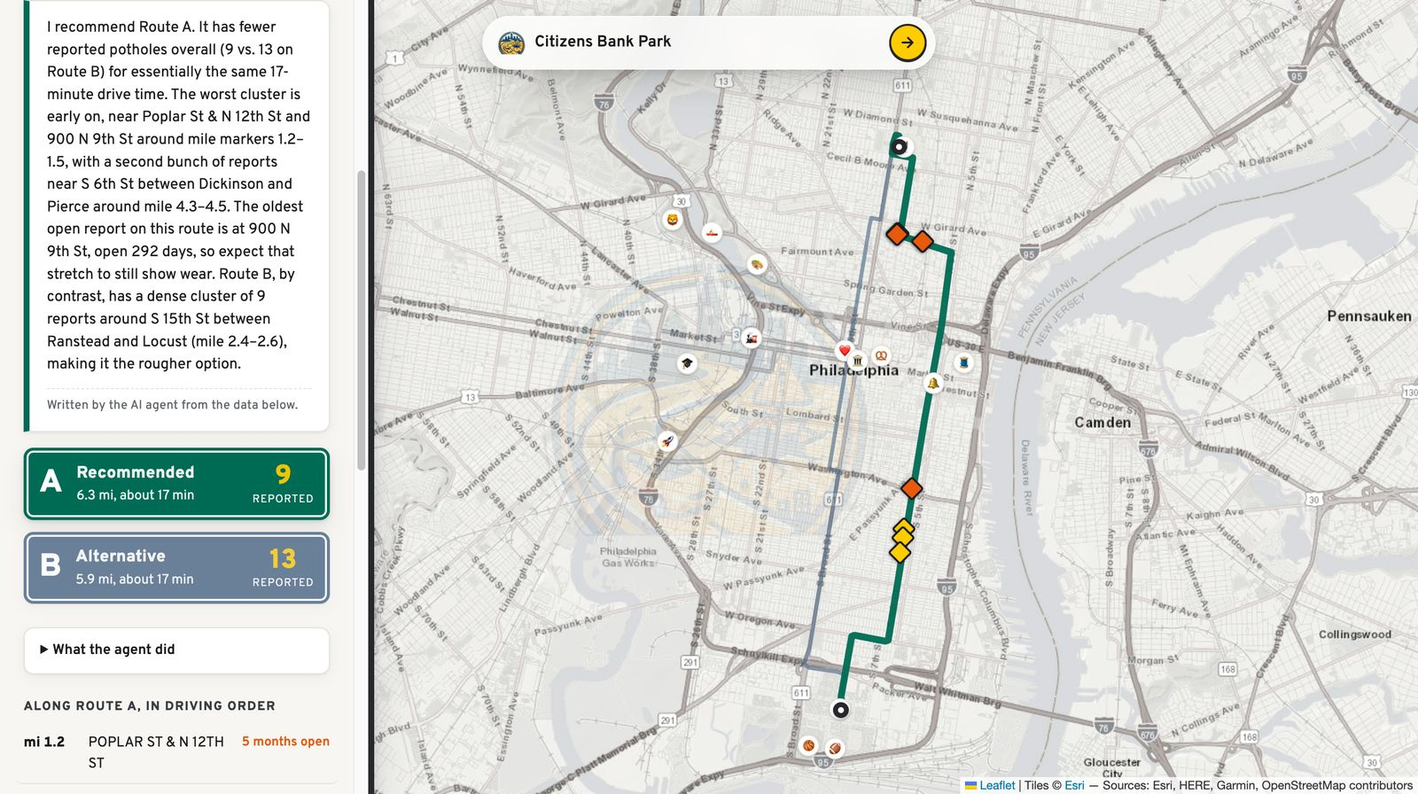
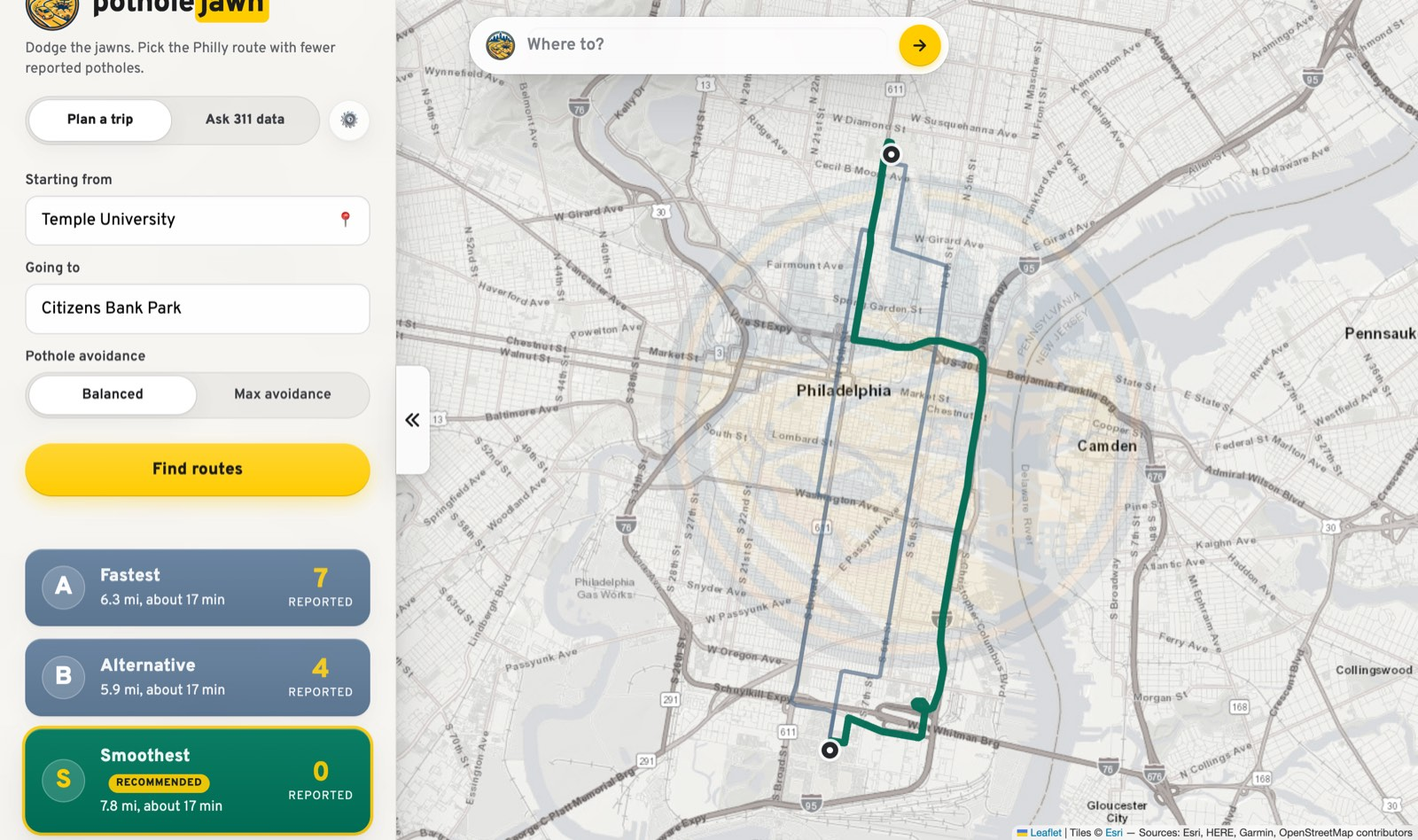
Reframe potholejawn as a product: case study, card, screenshots, OG
potholejawn has moved past its hackathon build: its own A* router on a
Philly street graph, live turn-by-turn navigation, saved places, and a
Cloud Run pipeline. Rewrite the case study and project card around that,
swap in current screenshots, add a v2 social card and SEO copy, and add
an October update to the hackathon Field Notes post.

diff --git a/src/pages/PotholejawnCaseStudy.jsx b/src/pages/PotholejawnCaseStudy.jsx
@@ -5,11 +5,11 @@ import { useSeo } from '../lib/seo';
 
 export default function PotholejawnCaseStudy() {
   useSeo({
-    title: 'potholejawn · AI Agent Over Live 311 Data — Case Study · dgpugliese.dev',
+    title: 'potholejawn · Pothole-Aware Navigation — Case Study · dgpugliese.dev',
     description:
-      "Case study: potholejawn, an AI agent that scans Philadelphia's live 311 data — 5.9 million rows — to route you around the potholes. Built solo in one day at a hackathon. Claude tool use, PostGIS, SSE streaming, guarded SQL.",
+      "Case study: potholejawn, turn-by-turn navigation that routes around Philadelphia's potholes. Its own A* street graph with live 311 reports as penalties, every route verified against city data, voice navigation, and a Claude trip agent. Python, PostGIS, OSRM, Cloud Run.",
     path: '/potholejawn',
-    image: 'https://dgpugliese.dev/potholejawn-og-v1.png',
+    image: 'https://dgpugliese.dev/potholejawn-og-v2.png',
   });
   return (
     <>
@@ -31,14 +31,14 @@ export default function PotholejawnCaseStudy() {
               potholejawn<span style={{ color: 'var(--cyan)' }}>.</span>
             </h1>
             <div className="mono" style={{ fontSize: 16, marginTop: 16, color: 'var(--fg-dim)' }}>
-              an AI agent that scans Philadelphia&apos;s live 311 data — 5.9 million rows — to route you around the potholes.
+              turn-by-turn navigation that routes around Philadelphia&apos;s potholes — planned on its own street graph, verified against the city&apos;s live 311 data.
             </div>
             <div className="mono" style={{ display: 'flex', flexWrap: 'wrap', gap: 18, marginTop: 28, fontSize: 11, color: 'var(--fg-faint)', borderTop: '1px dashed var(--line)', paddingTop: 16, letterSpacing: '0.12em' }}>
               <span><span style={{ color: 'var(--green)' }}>●</span> LIVE</span>
-              <span>SOLO BUILD · ONE DAY · HACKATHON</span>
-              <span>SHIPPED 2026-09-20</span>
+              <span>SOLO BUILD · PRODUCT</span>
+              <span>SINCE 2026-09-20</span>
               <a href="https://potholejawn.com" target="_blank" rel="noreferrer" style={{ color: 'var(--cyan)', textDecoration: 'none' }}>potholejawn.com ↗</a>
-              <a href="https://github.com/dgpugliese/potholejawn" target="_blank" rel="noreferrer" style={{ color: 'var(--cyan)', textDecoration: 'none' }}>SOURCE ↗</a>
+              <a href="https://github.com/dgpugliese/potholejawn-hackathon" target="_blank" rel="noreferrer" style={{ color: 'var(--cyan)', textDecoration: 'none' }}>SOURCE ↗</a>
             </div>
           </div>
 
@@ -48,7 +48,7 @@ export default function PotholejawnCaseStudy() {
           <div className="panel" style={{ padding: 0, marginBottom: 32, overflow: 'hidden' }}>
             <img
               src="/screenshots/potholejawn.jpg"
-              alt="Full-viewport map of Philadelphia with 1,500+ live open pothole reports as yellow dots and a floating 'Where to?' search pill"
+              alt="Full-viewport map of Philadelphia with over a thousand live open pothole reports as yellow dots and a floating 'Where to?' search pill"
               style={{ display: 'block', width: '100%', height: 'auto' }}
               loading="lazy"
             />
@@ -57,129 +57,158 @@ export default function PotholejawnCaseStudy() {
           {/* 01 TL;DR */}
           <Section title="TL;DR" sub="60-second summary">
             <p style={P}>
-              potholejawn is a map-first web app over Philadelphia&apos;s live 311 dataset. The map opens on
-              <Cyan> every open pothole report in the city right now</Cyan> — 1,500+ in view before you type
-              anything. Type where you are and where you&apos;re going, and an AI agent geocodes both places,
-              pulls the driving routes, scans each one against live city data for open street-defect reports
-              within 30 meters, and recommends the smoother drive with a plain-language briefing.
+              potholejawn is navigation for Philadelphia that knows where the potholes are. The map opens on
+              <Cyan> every open pothole report in the city right now</Cyan>. Type where you&apos;re going and it
+              fetches the fastest routes, then <Cyan>re-plans the drive on its own street graph</Cyan> with every
+              open report as a time penalty, verifies each route against the city&apos;s live data, and
+              recommends one. Tap <Cyan>Start navigation</Cyan> and it drives you there: maneuver banner, voice,
+              posted-limit speedometer, a heads-up for every reported pothole ahead, and an automatic smooth
+              re-route when you leave the route.
             </p>
             <p style={P}>
-              It was built <Cyan>solo, in one day</Cyan>, at the Code &amp; Coffee Philadelphia AI Agent
-              Hackathon on September 20, 2026, and was live at <Cyan>potholejawn.com</Cyan> the same day —
-              with 42 passing tests, rate limits, prompt caching, and a deterministic fallback so the demo
-              never dies. Cost hardening (a model-tier knob and a trip-result cache) landed the same evening.
+              It started as a one-day build at the Code &amp; Coffee Philadelphia AI Agent Hackathon on
+              September 20, 2026. That version could only <Dim>choose</Dim> between routes a time-optimal router
+              offered. Since then it has been rebuilt into a product: its own router, live navigation, saved
+              places, a redesigned interface, and a tested Google Cloud pipeline — <Cyan>60 tests</Cyan>, no API
+              key or network needed to run them.
             </p>
           </Section>
 
           {/* 02 Why */}
-          <Section title="Why it exists" sub="the data is public; the answers aren't">
+          <Section title="Why it exists" sub="the data is public; the routing gap is real">
             <p style={P}>
-              Philadelphia publishes every 311 request since 2014 — about 6 million rows — but answering a
-              real question takes SQL skills and knowledge of the data&apos;s quirks. In 2026 the city closes
-              illegal-dumping reports in about 4 days, while roughly <Cyan>19% of pothole reports</Cyan> and
-              <Cyan> 81% of abandoned-vehicle reports</Cyan> are still open. Residents, journalists, and
-              council staff should be able to find that out by asking.
+              Mainstream routers optimise for time, and a time-optimal router like OSRM cannot avoid potholes: the
+              best it can do is offer alternatives, and often every alternative runs down the same bad street. Meanwhile Philadelphia
+              publishes every 311 request since 2014 — about 6 million rows — and in 2026 roughly
+              <Cyan> 19% of pothole reports</Cyan> are still open, taking an average of 27 days to close. The
+              data to route around them exists. Nothing was turning it into a drive.
             </p>
           </Section>
 
           {/* 03 Architecture */}
-          <Section title="How the trip agent works" sub="the agent picks the tools; the rails pick the limits">
+          <Section title="How a trip works" sub="plan our own route, grade it with the city's numbers">
             <Diagram />
             <p style={P}>
-              The agent decides which tools to call and in what order, weighs pothole count, report age, and
-              drive time, then explains its pick. Both agents — trip and analyst — share
-              <Cyan> one generic tool loop</Cyan>; the difference is entirely in the tools and the system prompt.
-            </p>
-          </Section>
-
-          {/* 04 Watching it think */}
-          <Section title="Watching it think" sub="streaming steps instead of a spinner">
-            <p style={P}>
-              Agent steps stream to the panel live over <Cyan>Server-Sent Events</Cyan>, so you watch the
-              agent geocode, fetch routes, and scan them instead of staring at a spinner. After a trip, the
-              <Cyan> &quot;What the agent did&quot;</Cyan> section shows the full audit trail — every thought, tool
-              call, SQL query, error, and token count. The same trail is written to a per-run JSONL file on
-              the server. An agent you can audit is an agent you can trust in front of strangers.
+              The trip agent decides which tools to call and in what order, weighs pothole count, report age, and
+              drive time, then explains its pick in plain language. Its steps stream to the panel live over
+              <Cyan> Server-Sent Events</Cyan>, and <Cyan>&quot;How this route was chosen&quot;</Cyan> shows every
+              lookup behind the result. When the model is unavailable, a plain-Python planner scores each route
+              as minutes plus the same time value per report the router optimised with — so the recommendation
+              always agrees with the plan.
             </p>
             <div className="panel" style={{ padding: 0, marginBottom: 18, overflow: 'hidden' }}>
               <img
                 src="/screenshots/potholejawn-trip.jpg"
-                alt="Desktop trip view: slide-in panel with the agent's briefing, Route A recommended with 9 reports vs Route B's 13, a 'What the agent did' audit section, and both routes drawn on the map with pothole markers"
+                alt="Desktop trip view: Temple University to Citizens Bank Park with three route cards — Fastest at 7 reported potholes, Alternative at 4, and the recommended Smoothest route at 0, all about 17 minutes — and the smooth route drawn in green on the map"
                 style={{ display: 'block', width: '100%', height: 'auto' }}
                 loading="lazy"
               />
             </div>
             <p style={{ ...P, marginBottom: 0 }}>
-              Real result from live data: <Dim>Temple University → Citizens Bank Park</Dim> — same 17-minute
-              drive, one route passes <Cyan>9 open pothole reports</Cyan>, the other <Cyan>13</Cyan>.
+              Real result from live data: <Dim>Temple University → Citizens Bank Park</Dim> — the fastest route
+              passes <Cyan>7 open pothole reports</Cyan>; the smooth route passes <Cyan>0</Cyan>, in the same
+              17 minutes.
             </p>
           </Section>
 
-          {/* 05 The analyst */}
-          <Section title="The 311 analyst" sub="an agent that writes its own SQL — inside a cage">
+          {/* 04 The smooth router */}
+          <Section title="The smooth router" sub="why it stopped being a hackathon project">
             <p style={P}>
-              The second agent answers open-ended questions — <Dim>&quot;where is the city slowest at fixing
-              potholes?&quot;</Dim> — by writing and running SQL against the full 5.9M-row dataset through the
-              city&apos;s public Carto SQL API. When a query fails, the error goes back to the model, which
-              <Cyan> fixes its own SQL and retries</Cyan>. The UI streams the analyst&apos;s steps live and shows
-              every query it runs.
+              Choosing the least-bad of someone else&apos;s routes was the hackathon&apos;s ceiling. Removing it
+              meant routing on potholejawn&apos;s own copy of the city&apos;s streets:
             </p>
-            <p style={P}>
-              Its SQL is treated as <Cyan>untrusted input</Cyan>: single SELECT only, table allowlist, no
-              comments, no admin functions, results capped at 200 rows. And the analyst carries honesty
-              rules — it reports the open-case share next to any time-to-close figure, and does not confuse
-              <Dim> more reports</Dim> with <Dim>more potholes</Dim>.
-            </p>
+            <ul style={UL}>
+              <li><Cyan>Street graph.</Cyan> Philadelphia&apos;s drivable network from OpenStreetMap, compacted to a 3 MB gzipped file — 64k intersections, 93k segments, one-way streets and posted speeds kept. It loads in a quarter of a second and ships inside the container.</li>
+              <li><Cyan>Penalties from live data.</Cyan> Every open Street Defect report from the last 12 months is matched to the segments within 30 m and becomes a time penalty — 45 s on <Dim>Balanced</Dim>, 180 s on <Dim>Max avoidance</Dim> — weighted down as reports age. The set refreshes every 10 minutes.</li>
+              <li><Cyan>Search.</Cyan> A* over travel time plus penalties, with turn-aware junction costs calibrated against OSRM on real Philly trips to within about 10%.</li>
+              <li><Cyan>Make it legal.</Cyan> The graph path is snapped through OSRM via a handful of waypoints with bearings, so the route respects turn restrictions and comes back with real durations and turn-by-turn directions.</li>
+              <li><Cyan>Verify.</Cyan> The smooth route is scanned with the exact same city-data query as every other route.</li>
+            </ul>
+          </Section>
+
+          {/* 05 Live navigation */}
+          <Section title="Live navigation" sub="in the spirit of Google Maps and Waze">
+            <div style={{ display: 'flex', flexWrap: 'wrap', gap: 24, alignItems: 'flex-start' }}>
+              <div style={{ flex: '1 1 320px' }}>
+                <p style={P}>
+                  Navigation runs in the browser against the route&apos;s own geometry. Each GPS fix is snapped to
+                  the line; the next maneuver drives the banner and the voice prompt; every reported pothole on the
+                  route is announced when it is within 160 m ahead. Two fixes more than 45 m off the line trigger a
+                  re-route: the smooth router runs again from your position — no model call, about a second — and
+                  the new route takes over without leaving navigation.
+                </p>
+                <ul style={UL}>
+                  <li>A <Cyan>speedometer</Cyan> with the posted limit read from the street graph&apos;s OpenStreetMap tags; it turns red when you are over.</li>
+                  <li><Cyan>Alternatives from here</Cyan> — smooth, max avoidance, fastest — each scanned, switchable on tap.</li>
+                  <li>Your <Cyan>vehicle and voice</Cyan>: seven top-down vehicle icons in eight colours, any English voice the device offers, haptic nudges before turns.</li>
+                  <li>A <Cyan>night map</Cyan> from sunset to sunrise, route overview, and <Dim>Report a pothole here</Dim> to drop a pin for 311 after the drive.</li>
+                  <li><Cyan>Saved places</Cyan> — Home, Work, favourites, recent trips — kept on your device, not on a server.</li>
+                </ul>
+                <p style={{ ...P, marginBottom: 0 }}>
+                  <Dim>Preview drive</Dim> replays a route through the same code path, which is how navigation is
+                  tested without a car.
+                </p>
+              </div>
+              <div className="panel" style={{ padding: 0, overflow: 'hidden', flex: '0 1 280px', margin: '0 auto' }}>
+                <img
+                  src="/screenshots/potholejawn-mobile.jpg"
+                  alt="Mobile navigation at night: a green maneuver banner reading 'Turn left onto North Broad Street (PA 611)', the vehicle icon on the route, a speedometer at 25 mph under a 30 limit, and the ETA bar"
+                  style={{ display: 'block', width: '100%', height: 'auto' }}
+                  loading="lazy"
+                />
+              </div>
+            </div>
           </Section>
 
           {/* 06 Guardrails */}
           <Section title="Guardrails" sub="autonomy where it helps, hard rails where it matters">
             <Decision
+              title="The router never grades its own homework."
+              body="The smooth router plans with its own report matching, but the count you see always comes from the same PostGIS corridor query run against every route. The number on the smooth route is the city's number, not ours."
+            />
+            <Decision
               title="The model never writes the route SQL."
               body="The PostGIS route-scan query is built in plain Python from validated numbers only — the search radius is clamped to 10–100 m, and every coordinate must fall inside a Philadelphia bounding box. The agent chooses when to scan; it never chooses the SQL."
             />
             <Decision
-              title="The demo never dies."
-              body="If the API key is missing or the model call fails, a plain-Python planner produces the same map and a simpler briefing. If the agent skips a route, a completeness check scans it anyway. Graceful degradation was a design requirement, not an afterthought."
-            />
-            <Decision
-              title="A run cannot loop forever."
-              body="Hard cap of 12 model turns per run, per-IP and global rate limits on the public agent endpoints, and a full JSONL audit trail of every step and token count."
+              title="Every failure has a floor."
+              body="No API key or a failed model call: a plain-Python planner produces the same pick and a simpler briefing. OSRM wanders or is down: the graph geometry is used as is. The agent skips a route: a completeness check scans it anyway. Re-routing mid-drive never waits on a model."
             />
             <Decision
               title="Honest framing beats impressive framing."
-              body="Markers are resident reports, not verified potholes, and the UI says so. API data is inserted with textContent, never parsed as HTML; CDN assets are pinned with Subresource Integrity hashes."
+              body="Markers are resident reports, not verified potholes, and the UI says so. API data is inserted with textContent, never parsed as HTML; CDN assets are pinned with Subresource Integrity hashes; agent endpoints are rate limited per IP and globally; a run stops after 12 model turns."
             />
           </Section>
 
-          {/* 07 Cost engineering */}
-          <Section title="Cost engineering" sub="the same-evening hardening pass">
+          {/* 07 Production */}
+          <Section title="Production" sub="one Google Cloud project, nothing else">
             <ul style={UL}>
-              <li><Cyan>Prompt caching</Cyan> on the agent loop — a system-prefix breakpoint plus a moving conversation breakpoint, so later steps read the prompt prefix from cache at ~10% price. Verified on a real run: cache reads climbing from 1,204 to 3,252 tokens by the later steps.</li>
-              <li>A <Cyan>model-tier knob</Cyan> — an env var drops the trip loop to a smaller model (~3× cheaper) without touching the code path; the default stayed on the larger model through judging so briefing quality held.</li>
-              <li>A <Cyan>1-hour trip-result cache</Cyan> keyed on normalized endpoints, checked before the rate limiter — a repeated route serves instantly without a single model token.</li>
-              <li>Token usage is logged per step, so the cost of any run is a grep away.</li>
+              <li><Cyan>Cloud Run</Cyan> serves the app with the street graph in memory; it scales to zero and carries both domains with managed certificates.</li>
+              <li><Cyan>Cloud Build</Cyan> runs the test suite, builds the image, and rolls out the revision — a failing test never ships.</li>
+              <li>The Anthropic key lives in <Cyan>Secret Manager</Cyan>, mounted at container start — never in the image, repo, or service config.</li>
+              <li><Cyan>Prompt caching</Cyan> on the agent loop (later steps read the prompt prefix at ~10% price) and a <Cyan>one-hour trip-result cache</Cyan>, so a repeated route serves without a single model token.</li>
+              <li>Installable to a phone home screen as a <Cyan>PWA</Cyan>.</li>
             </ul>
           </Section>
 
           {/* 08 Tests */}
-          <Section title="Testing an agent" sub="42 tests, zero API calls">
+          <Section title="Testing" sub="60 tests, zero API calls">
             <p style={P}>
-              The test suite runs against a <Cyan>fake model client</Cyan> — no API key, no network. That
-              means the tool loop, the SQL guardrails, the geofence, the fallback planner, and the route
-              scanner are all exercised deterministically in CI, and a hackathon-day refactor can&apos;t silently
-              break the demo. <Cyan>42 tests passing</Cyan> at ship.
+              The suite runs against a <Cyan>fake model client</Cyan> and a <Cyan>synthetic street grid</Cyan> —
+              no API key, no network. The tool loop, the A* router and its penalties, the SQL guardrails, the
+              geofence, the fallback planner, and the route scanner are all exercised deterministically on every
+              build.
             </p>
           </Section>
 
           {/* 09 Lessons */}
-          <Section title="Lessons" sub="what transferred">
+          <Section title="From hackathon to product" sub="what changed, and what transferred">
             <ul style={UL}>
-              <li>Build the guardrails before the intelligence. The SQL cage and the geofence took an hour and made every later feature safe to ship fast.</li>
-              <li>Streaming the agent&apos;s steps is a trust feature, not a UX flourish — the audit trail was the most-discussed part of the demo.</li>
-              <li>A deterministic fallback is what lets you demo an LLM app to a room with confidence.</li>
-              <li>One generic tool loop, two very different agents. The abstraction paid for itself the same day.</li>
-              <li>Prompt caching is the cheapest optimization in agent engineering — one breakpoint decision, ~90% off repeated prefix tokens.</li>
+              <li>The hackathon proved the data was useful; the product needed to <Dim>act</Dim> on it. Owning the router is what turned &quot;which of these routes is less bad&quot; into &quot;here is a route with none.&quot;</li>
+              <li>Scope came off as well as on. The 311 analyst agent — an agent that wrote its own guarded SQL — was the most technical part of the demo, but it was not what a driver needs. It moved to the command line, and the interface became navigation only.</li>
+              <li>Build the guardrails before the intelligence. The SQL cage, the geofence, and the deterministic fallback from day one are why every later feature was safe to ship.</li>
+              <li>Keep the model off the hot path. The agent explains the pick; re-routing at 30 mph runs in plain Python in about a second.</li>
+              <li>Verification is a product feature. Grading every route with the city&apos;s own query is what makes a &quot;0 reported&quot; claim worth trusting.</li>
             </ul>
           </Section>
 
@@ -230,27 +259,27 @@ function Diagram() {
       <div className="mono" style={{ fontSize: 10, color: 'var(--fg-faint)', letterSpacing: '0.2em', marginBottom: 12 }}>// ONE TRIP</div>
       <pre className="mono" style={{ fontSize: 12, color: 'var(--fg)', lineHeight: 1.55, margin: 0, whiteSpace: 'pre' }}>{`
   map-first UI (Leaflet + Flask)
-  citywide pothole layer · "Where to?" pill · autocomplete
+  citywide pothole layer · "Where to?" pill · saved places · avoidance switch
        │
-  "Temple University" → "Citizens Bank Park"
-       │
-       ▼
-  TRIP AGENT (Claude + tools, shared generic tool loop)
-       ├── geocode_address    US Census geocoder, OpenStreetMap fallback
-       ├── find_routes        OSRM: main route plus alternatives
-       ├── scan_route         PostGIS query on the city's live 311 API —
-       │                      open street-defect reports within 30 m of the route
-       └── recommend_route    records the choice as structured output
+  your location → "Citizens Bank Park"
        │
        ▼
-  agent steps stream back live (SSE)
+  TRIP AGENT (Claude + tools)          ── or the deterministic planner
+       ├── geocode_address     US Census geocoder, OpenStreetMap fallback
+       ├── find_routes         OSRM: fastest route plus alternatives (A, B)
+       ├── find_smooth_route   our A* router on the street graph (S)
+       │                       open 311 reports → time penalties
+       ├── scan_route          PostGIS query on the city's live 311 API —
+       │                       the same check for every route, ours included
+       └── recommend_route     records the choice as structured output
        │
        ▼
-  slide-in panel / bottom sheet
-  route signs · briefing · "What the agent did" audit · ask-the-analyst box
-
-  every thought, tool call, SQL query, error, and token count
-  ──── written to runs/run-<timestamp>.jsonl ────
+  steps stream back live (SSE) → route cards · briefing · directions
+       │
+       ▼
+  START NAVIGATION
+  GPS snap · voice · speed limit · pothole-ahead alerts
+  off route? → /api/navigate re-plans from here (no model call, ~1 s)
 `}</pre>
     </div>
   );

diff --git a/src/data/projects.js b/src/data/projects.js
@@ -12,27 +12,28 @@
 
 export const projects = [
   {
-    id: 'POTHOLEJAWN', kind: 'AI AGENT', tag: 'LIVE', tagC: 'green',
+    id: 'POTHOLEJAWN', kind: 'PRODUCT', tag: 'LIVE', tagC: 'green',
     title: 'potholejawn',
     logo: '/logos/potholejawn.png',
-    sub: "AI agent over Philly's live 311 data · potholejawn.com",
-    stack: ['Claude (tool use)', 'Python 3.12', 'Flask', 'PostGIS / Carto SQL', 'OSRM', 'Leaflet', 'SSE', 'PWA'],
-    detail: "An AI agent that scans Philadelphia's live 311 data — 5.9 million rows — to route you around the potholes. Type two Philly places; the agent geocodes both, pulls the main route plus alternatives from OSRM, runs a PostGIS query against the city's live 311 API for open street-defect reports within 30 m of each route, and recommends the smoother drive with a plain-language briefing. Agent steps stream live over Server-Sent Events with a full 'What the agent did' audit trail, token counts included. A second analyst agent answers open-ended questions by writing guarded read-only SQL against the full dataset, reading its own errors and retrying. Built solo in one day at the Code & Coffee Philadelphia AI Agent Hackathon — 42 passing tests, prompt caching, rate limits, and a deterministic fallback so the demo never dies.",
+    sub: 'Pothole-aware navigation for Philadelphia · potholejawn.com',
+    stack: ['Python 3.12', 'Flask', 'A* street graph', 'OpenStreetMap', 'OSRM', 'PostGIS / Carto SQL', 'Claude (tool use)', 'Leaflet', 'PWA', 'Cloud Run'],
+    detail: "Turn-by-turn navigation that routes around Philadelphia's potholes. potholejawn plans drives on its own street graph — 64k intersections and 93k segments from OpenStreetMap — with every open 311 pothole report as a time penalty, then verifies each route against the city's live data with the same PostGIS corridor query, so the count you see is the city's number, not the router's. Live navigation follows your GPS with a maneuver banner, voice guidance, a speedometer with the posted limit, a heads-up for every reported pothole ahead, and an automatic smooth re-route when you leave the route. Saved places, a Balanced / Max avoidance switch, alternatives from wherever you are, a night map, share links, and a one-tap hand-off to Google Maps. An AI agent runs the tools and writes the briefing; a deterministic planner produces the same pick when it cannot. Started as a one-day hackathon build; now a product on Google Cloud with a tested build-and-deploy pipeline.",
     caseStudy: '/potholejawn',
     live: 'https://potholejawn.com',
-    repo: 'https://github.com/dgpugliese/potholejawn',
-    period: 'SHIPPED 2026-09-20',
-    headline: 'A one-day AI agent over 5.9 million rows of live city data.',
+    repo: 'https://github.com/dgpugliese/potholejawn-hackathon',
+    period: 'SINCE 2026-09-20',
+    headline: 'Navigation that routes around the potholes, verified against live city data.',
     shipped: [
-      'Trip agent: geocode → OSRM routes → PostGIS scan of live 311 reports within 30 m of each route → recommendation with a plain-language briefing',
-      "Agent steps stream live over SSE with a full 'What the agent did' audit trail, token counts included",
-      'Analyst agent writes guarded read-only SQL against the 5.9M-row dataset, reads its own errors, and retries — every query shown in the UI',
-      'Prompt caching, per-IP + global rate limits, a 1-hour trip-result cache, and a plain-Python fallback planner',
+      'Smooth router: A* over its own Philadelphia street graph, with every open 311 pothole report as an age-weighted time penalty',
+      'Every route — ours and OSRM\'s — verified by the same PostGIS corridor query against the city\'s live 311 API',
+      'Live navigation: GPS following, voice, posted-limit speedometer, pothole-ahead alerts, and off-route smooth re-routing in about a second',
+      'Saved places, avoidance levels, alternatives from your position, night map, share links, and Google Maps hand-off',
+      'Claude trip agent with a deterministic fallback, prompt caching, rate limits, and a Cloud Build test-build-deploy pipeline',
     ],
-    result: 'Live at potholejawn.com the same day it was started. Real result from live data: Temple → Citizens Bank Park, same 17-minute drive — one route passes 9 open pothole reports, the other 13.',
-    context: "Philadelphia publishes every 311 request since 2014, but answering a real question takes SQL skills and knowledge of the data's quirks. Residents, journalists, and council staff should be able to just ask.",
-    problem: "The model never writes the route SQL — that query is built from validated numbers only, radius clamped, every coordinate geofenced to Philadelphia. The analyst's SQL is treated as untrusted input: single SELECT, table allowlist, capped rows. Agent autonomy where it helps, hard rails where it matters.",
-    ownership: 'Designed and built solo in one day at the Code & Coffee Philadelphia AI Agent Hackathon — both agents, the shared tool loop, the map-first UI, guardrails, tests, and the production deployment.',
+    result: 'Real result from live data: Temple University → Citizens Bank Park. The fastest route passes 7 open pothole reports; the smooth route passes 0, in the same 17 minutes.',
+    context: "Mainstream routers optimise for time; a time-optimal router cannot avoid potholes — the best it can do is offer alternatives. Philadelphia publishes every open pothole report live, but nothing turned that data into a drive.",
+    problem: "The router plans with its own matching, but it never grades itself: every route is re-scanned by the exact same city-data query, so the smooth route's count is the city's number. The graph path is snapped through OSRM with bearings so it respects turn restrictions and gets real directions, and the model never writes the route SQL — it is built from validated numbers only, every coordinate geofenced to Philadelphia.",
+    ownership: 'Designed and built solo — the street graph and A* router, live navigation, the trip agent and fallback planner, the map-first UI, guardrails, a 60-test suite, and the Google Cloud deployment. Started at the Code & Coffee Philadelphia AI Agent Hackathon (2026-09-20) and rebuilt into a product since.',
   },
   {
     id: 'OBSCURA', kind: 'WEB APP', tag: 'LIVE', tagC: 'green',

diff --git a/src/data/posts.js b/src/data/posts.js
@@ -13,7 +13,7 @@ export const posts = [
     readTime: '5 min',
     cta: {
       label: 'WANT THE FULL ARCHITECTURE?',
-      text: 'The complete case study covers the shared tool loop, the SQL cage, the SSE audit trail, and the same-evening cost-hardening pass.',
+      text: 'potholejawn has since grown into a product: its own pothole-aware router, live turn-by-turn navigation, and a Google Cloud pipeline. The case study covers where it is now.',
       button: '→ READ THE POTHOLEJAWN CASE STUDY',
       href: '/potholejawn',
       secondary: { button: '↗ TRY IT AT POTHOLEJAWN.COM', href: 'https://potholejawn.com' },
@@ -42,6 +42,10 @@ export const posts = [
       {
         heading: 'What Transferred',
         text: `One generic tool loop powered two very different agents — a trip router and a data analyst — and the abstraction paid for itself the same day. Honest framing beat impressive framing: the markers are resident reports, not verified potholes, and the UI says so. And the whole thing is live, installable as a PWA, and open source. Try Temple University to Citizens Bank Park: same 17-minute drive, one route passes 9 open pothole reports, the other 13. Now you know which one your suspension prefers.`,
+      },
+      {
+        heading: 'Update — October 2026',
+        text: `The hackathon version could only choose between routes someone else's router offered. potholejawn now plans its own: A* over a Philadelphia street graph with every open pothole report as a time penalty, each route verified with the same city-data query. Temple to Citizens Bank Park is now 7 reported potholes on the fastest route and 0 on the smooth one, same 17 minutes. It also navigates — GPS, voice, speed limits, pothole-ahead alerts, re-routing — and the analyst agent moved to the command line so the app could be about driving. The case study has the details.`,
       },
     ],
   },
